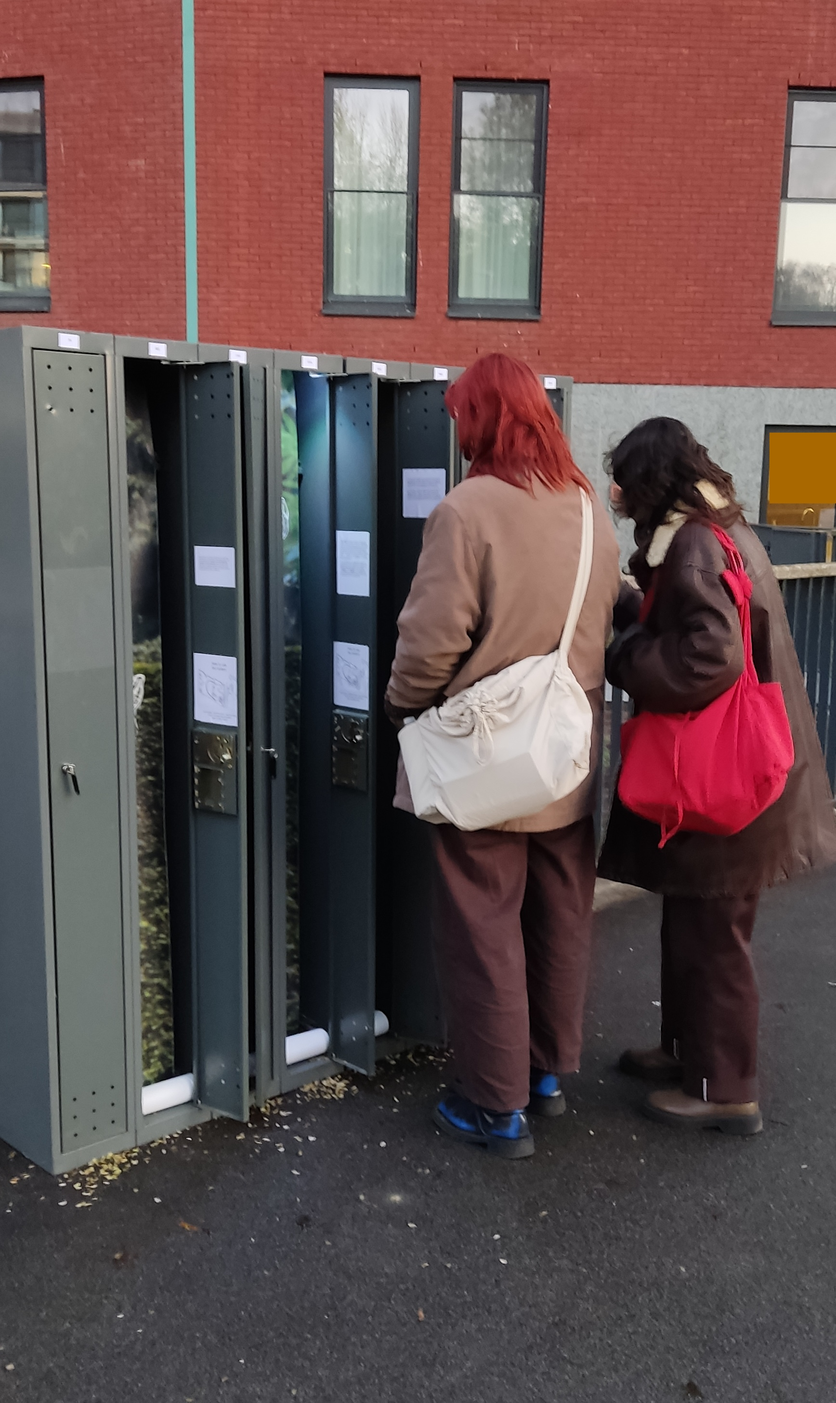
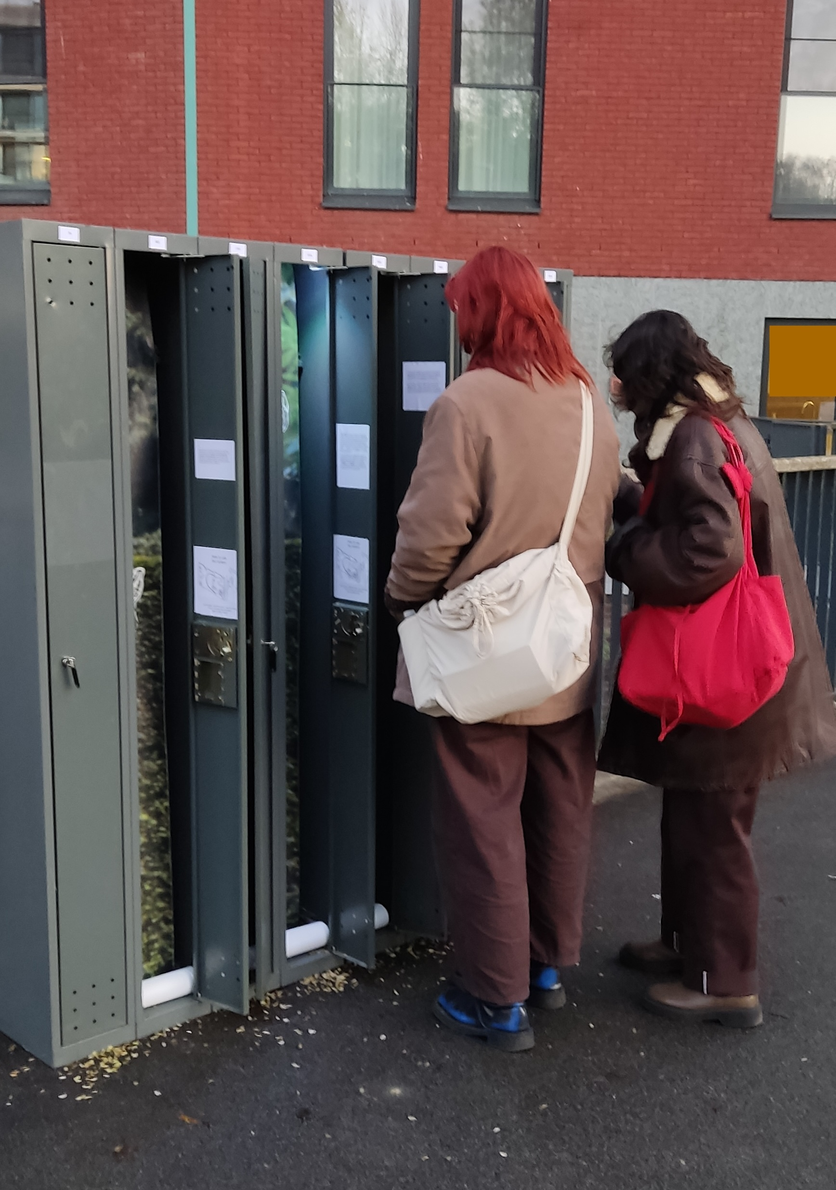
rename sous cloche file

diff --git a/sous-cloche.html b/sous-cloche.html
@@ -1,0 +1,205 @@
+<!DOCTYPE html>
+<html lang="fr">
+
+<head>
+    <meta charset="UTF-8">
+    <meta name="viewport" content="width=device-width, initial-scale=1.0">
+    <title>Sous cloche - Fiona Guillemant</title>
+    <link  href="https://cdnjs.cloudflare.com/ajax/libs/lightbox2/2.11.3/css/lightbox.min.css" rel="stylesheet" />
+    <script src="https://cdnjs.cloudflare.com/ajax/libs/lightbox2/2.11.3/js/lightbox.min.js"></script>
+    <style>
+        /* Style basique pour la mise en page et la galerie d'images */
+        body {
+            margin: 0;
+            font-family: Cambria, Cochin, Georgia, Times, 'Times New Roman', serif;
+            line-height: 1.6;
+            background-color: #ffffff;
+        }
+
+        header {
+            background-color: #ff4800;
+            color: white;
+            padding: 10px 0;
+            text-align: center;
+        }
+
+        nav ul {
+            list-style: none;
+            padding: 0;
+        }
+
+        nav ul li {
+            display: inline;
+            margin-right: 15px;
+        }
+
+        nav ul li a {
+            color: white;
+            text-decoration: none;
+        }
+
+        main {
+            padding: 20px;
+        }
+
+        .container {
+            width: 80%;
+            max-width: 1200px;
+            margin: 0 auto;
+            padding: 20px;
+            background-color: #fff;
+        }
+
+        .gallery {
+            display: flex;
+            flex-wrap: wrap;
+            gap: 10px;
+            justify-content: center;
+        }
+
+        .gallery img {
+            max-width: 100%;
+            height: auto;
+            border-radius: 0px;
+            box-shadow: 0 4px 8px rgba(255, 255, 255, 0.1);
+        }
+
+        .gallery-item {
+            flex-basis: calc(33.333% - 20px);
+            margin-bottom: 20px;
+        }
+
+        @media (max-width: 768px) {
+            .gallery-item {
+                flex-basis: calc(50% - 20px);
+            }
+        }
+
+        @media (max-width: 480px) {
+            .gallery-item {
+                flex-basis: 100%;
+            }
+        }
+
+        footer {
+            background-color: #ffffff;
+            color: rgb(184, 184, 184);
+            text-align: center;
+            padding: 10px 0;
+            margin-top: 20px;
+        }
+    </style>
+</head>
+
+<body class="is-preload">
+
+    <header>
+        <nav>
+            <ul>
+                <li><a href="index.html">Retour aux projets</a></li>
+            </ul>
+        </nav>
+    </header>
+
+    <main>
+        <section class="container">
+            <h2><i>Sous cloche</i></h2>
+            <p> L’installation <i>Sous cloche</i> se décline autour du houblon, évoquant la frontière entre biodiversité cultivée et biodiversité spontanée.
+
+<br><br>
+Après avoir porté les bières régionales belges au niveau des marchés internationaux, des variétés entières de houblons ont pourtant disparu à partir du XXe siècle, victimes de l’homogénéisation des goûts et des procédés industriels. 
+<br>Comme des pans de mémoire oubliés.
+<br>L’installation se concentre sur ces variétés, parmi lesquelles certaines ont été redécouvertes au début des années 2000 grâce à des collaborations scientifiques internationales. 
+Le nom de l'installation provient de l'une d'entre elles, le Groene Belle, elle-même nommée d'après la forme du cône : une cloche verte.
+<br><br>
+
+Les dessins se déploient sur une photographie monumentale récupérée du Centre International pour la Ville et l'Architecture (aujourd'hui « Kanal Architecture ») représentant le parc René Pechère de Bruxelles, symbole des jardins modernes. 
+La disposition verticale des bandes évoque la pousse des houblonnières. 
+Des formes végétales délicates y sont dessinées d’après des gravures de monographies botaniques d'il y a 100 ans. 
+Diverses dimensions sont illustrées, du macro au micro. 
+L'ensemble matérialise une nature maîtrisée, au travers de savoirs botaniques, et de la coupe d'espaces plantés.
+
+<br><br>Les portions de photographie manquantes évoquent les variétés encore perdues, comme le Buvrinnes ou le Witte Rank. 
+L’installation se veut un hommage à la recherche et aux échanges comme moyens de déverrouiller notre notre accès à la biodiversité vivante et cultivée.
+<br><br>
+
+Au milieu, une composition réalisée à partir de cônes de houblon séchés, diffuse leur arôme.
+Leur récupération à été permise par plusieurs brasseurs amateurs, botanistes et biologistes qui ont travaillé sur des programmes de réintroduction de variétés perdues de houblons belges. 
+Le mouvement ainsi créé par ses bras fuyants de l’écoulement renforce le contraste entre matière contenue et matière spontanée.
+                
+<h5 style="font-weight: normal !important;">
+<br>En novembre 2025, une version interactive de l'installation a été exposée sous le titre <i>Unlockers</i> dans l'espace public, dans le cadre de <i>Meander</i>, exposition de Curating the Young / BAMM! vzw organisée durant le Fringe Festival au Sluispark (Louvain, BE) à l'occasion des 600 ans de l'Université KU Leuven.
+
+
+<p> 
+                
+                <h5 style="font-weight: normal !important;">
+                2025-2026
+                <br>Peinture acrylique sur bâche imprimée, 9 bandes de 250 × max. 20 cm
+                <br>Cônes de houblon d’Aalst séchés, colle et paraffine sur toile, 100 × 80 cm
+
+        </section>
+        <section class="gallery container">
+
+            <article class="col-6 col-12-xsmall work-item">
+                <div class="gallery-item">
+                 <a href="images/houblon/zoom-installation-sous-cloche-horizontal.jpg" data-lightbox="image-3" data-title="Vue de l'installation Sous Cloche">
+                     <img src="images/houblon/zoom-installation-sous-cloche-horizontal.jpg" alt="Vue de l'installation Sous Cloche">
+                </a>
+                </div>
+        <section class="gallery container">
+        <section class="gallery container">
+        <section class="gallery container">
+        <section class="gallery container">
+            <article class="col-6 col-12-xsmall work-item">
+            <div class="gallery-item">
+                <a href="images/houblon/dessin-fleur.png" data-lightbox="image-2" data-title="Dessin de fleur de houblon">
+                    <img src="images/houblon/dessin-fleur.png" alt="Dessin de fleur de houblon">
+                </a>
+            </div>
+
+            <article class="col-6 col-12-xsmall work-item">
+                <a href="images/houblon/dessin-bande.jpg" data-lightbox="image-2" data-title="Dessin de la composition d'une partie de fleur de houblon">
+                    <img src="images/houblon/dessin-bande.jpg" alt="Dessin de la composition d'une partie de fleur de houblon">
+                </a>
+            </div>
+<br><br>
+            <div class="gallery-item">
+                <a href="images/houblon/zoom-bandes.jpg" data-lightbox="image-3" data-title="Vue des dessins de l'installation Sous Cloche">
+                    <img src="images/houblon/zoom-bandes.jpg" alt="Vue des dessins de l'installation Sous Cloche">
+               </a>
+            </div>
+
+            <article class="col-6 col-12-xsmall work-item">
+            <div class="gallery-item">
+                <a href="images/houblon/zoom-houblon-seche-et-toile.jpg" data-lightbox="image-3" data-title="Détail de l'installation Sous Cloche">
+                    <img src="images/houblon/zoom-houblon-seche-et-toile.jpg" alt="Détail de l'installation Sous Cloche">
+                </a>
+            </div>
+
+            <article class="col-6 col-12-xsmall work-item">
+            <div class="gallery-item">
+                <a href="images/houblon/visiteuse-installation.jpg" data-lightbox="image-3" data-title="Installation Unlockers">
+                    <img src="images/houblon/visiteuse-installation.jpg" alt="Vue de l'installation Unlockers, activée par des passantes">
+                </a>
+            </div>
+     
+            
+            <article class="col-6 col-12-xsmall work-item">
+            <div class="gallery-item">
+                <a href="images/houblon/installation-unlockers-leuven-face.jpg" data-lightbox="image-3" data-title="Installation Unlockers">
+                    <img src="images/houblon/installation-unlockers-leuven-face.jpg" alt="Vue de l'installation Unlockers de nuit">
+                </a>
+            </div>
+
+            <!-- Ajoutez plus d'images si nécessaire -->
+        </section>
+    </main>
+
+    <footer>
+        <p>&copy; Fiona Guillemant 2026 </p>
+    </footer>
+
+</body>
+
+</html>

diff --git a/index.html b/index.html
@@ -42,7 +42,7 @@
 									<img src="images/houblon/dessin-fleur.png" 
 									alt="Dessin de fleur de houblon"
 									style="width: 100%; height: 100%; object-fit: cover; object-position: center;" />
-									<a href="sous cloche.html" 
+									<a href="sous-cloche.html" 
 									class="voir-button"><i>Sous cloche</i></a>
 								</div>
 							</article>
@@ -53,7 +53,7 @@
 									<img src="images/houblon/vignette-installation-unlockers-leuven.jpg" 
 									alt="Vue de l'installation Unlockers"
 									style="width: 100%; height: 100%; object-fit: cover; object-position: center;" />
-									<a href="sous cloche.html" class="voir-button"><i>Sous cloche</i></a>
+									<a href="sous-cloche.html" class="voir-button"><i>Sous cloche</i></a>
 								</div>
 							</article>
 						
